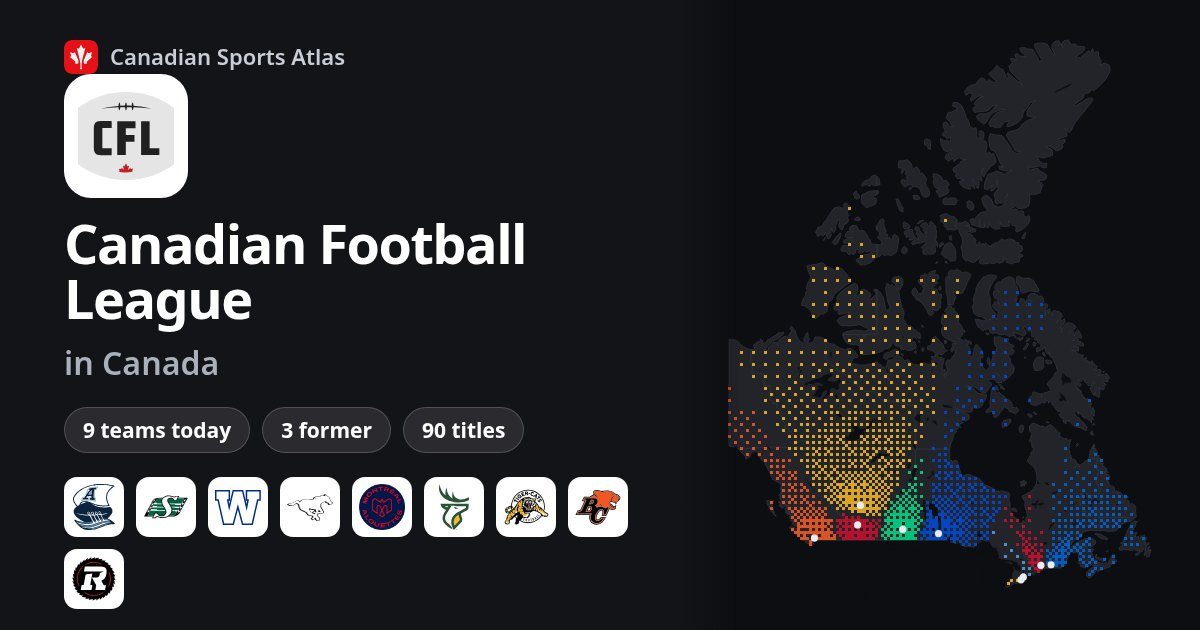
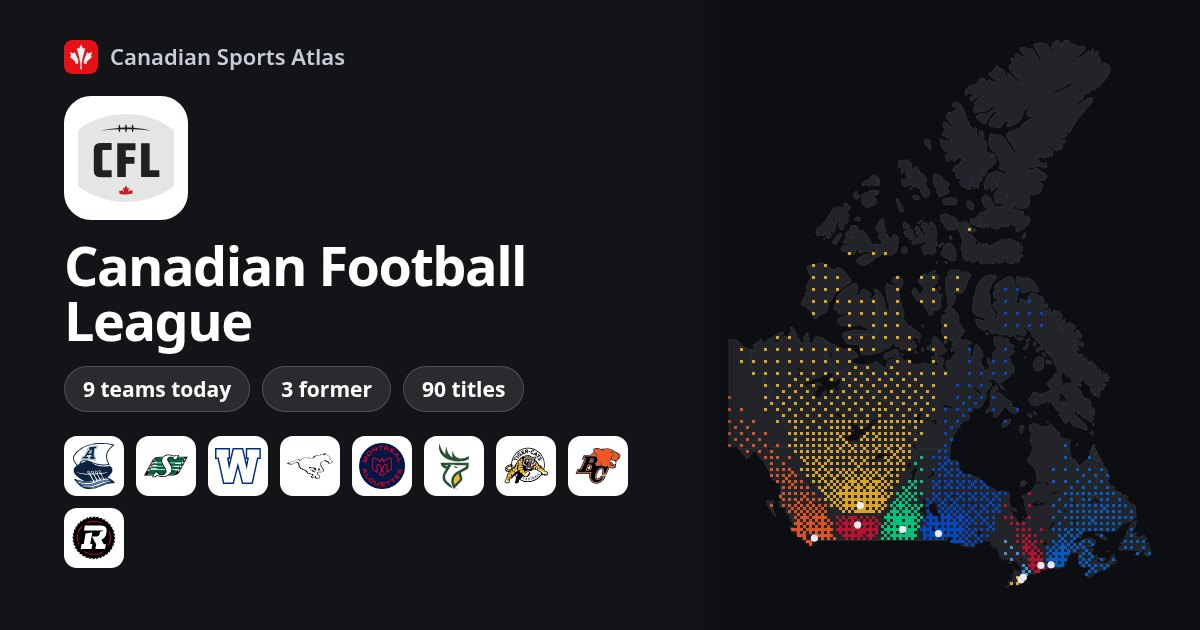
Frosted Credits header; no 'in Canada' on Canadian-only league cards
- Credits: the header now lives inside the scrolling content as a sticky,
  frosted header (the side panel's glass-panel-header), flush with the top of
  the dialog, so content blurs as it scrolls under it. Same 48px height and
  title alignment as before; divider removed to match the panel.
- Credits: 'Brian Latchman,' kept together so the comma never wraps alone.
- Preview cards for the CFL, CPL, CEBL and NSL drop the 'in Canada' line
  (re-rendered); leagues with teams outside Canada keep it.

diff --git a/src/components/CreditsDialog.tsx b/src/components/CreditsDialog.tsx
@@ -108,19 +108,25 @@ function FileList({title, items}: {title: string; items: FileCredit[]}) {
 export function CreditsDialog({isOpen, onOpenChange}: {isOpen: boolean; onOpenChange: (open: boolean) => void}) {
   return (
     <Dialog isOpen={isOpen} onOpenChange={onOpenChange} width={520} maxHeight="85dvh">
-      {/* The header stays put; the content scrolls. */}
+      {/* The header sticks to the top of the scrolling content, frosted like the side panel's. */}
       <Layout
-        header={<DialogHeader title="Credits" onOpenChange={onOpenChange} />}
         content={
           <LayoutContent>
+            <VStack className="glass-panel-header credits-header sticky z-10 -mx-4">
+              <DialogHeader title="Credits" onOpenChange={onOpenChange} hasDivider={false} />
+            </VStack>
             <VStack gap={5}>
               <VStack gap={3}>
                 <Text>
                   An unofficial fan project by{' '}
-                  <Link href="https://latchman.ca" isExternalLink>
-                    Brian Latchman
-                  </Link>
-                  , not affiliated with or endorsed by any league or team.
+                  {/* Kept with its comma so the comma never wraps onto a line of its own. */}
+                  <span className="whitespace-nowrap">
+                    <Link href="https://latchman.ca" isExternalLink>
+                      Brian Latchman
+                    </Link>
+                    ,
+                  </span>{' '}
+                  not affiliated with or endorsed by any league or team.
                 </Text>
                 <HStack gap={2} wrap="wrap">
                   <Button href={REPO} target="_blank" variant="secondary" size="sm" label="GitHub" icon={<Icon icon={ExternalIcon} />} />

diff --git a/src/og/OgCard.tsx b/src/og/OgCard.tsx
@@ -27,6 +27,8 @@ const PANEL_W = 520;
 /** Other teams' territories on a team or city card: present, but quiet. */
 const MUTED: [number, number, number] = [54, 57, 66];
 const FAVICON = `${import.meta.env.BASE_URL}favicon.svg`;
+/** Leagues that only play in Canada: their cards don't need "in Canada". */
+const CANADIAN_LEAGUES = new Set<LeagueId>(['CFL', 'CPL', 'CEBL', 'NSL']);
 
 const teamRgb = (team: Team) => siteColor(latestEra(team).colors);
 const currentTeams = (league?: LeagueId) => TEAMS.filter((t) => isPlayingNow(t) && (!league || t.league === league));
@@ -318,7 +320,7 @@ function LeagueCard({geo, league}: {geo: Geo; league: LeagueId}) {
           </LogoTile>
           <h1 className="og-name og-league">
             {info.name}
-            <small>in Canada</small>
+            {!CANADIAN_LEAGUES.has(league) && <small>in Canada</small>}
           </h1>
           <Pills
             items={[

diff --git a/src/globals.css b/src/globals.css
@@ -445,6 +445,14 @@
   }
 }
 
+/* Credits header: sticks to the very top of the scroll area (past its top padding), frosted. */
+@layer components {
+  .credits-header {
+    top: calc(-1 * var(--credits-pad, 16px)) !important;
+    margin-top: calc(-1 * var(--credits-pad, 16px)) !important;
+  }
+}
+
 /* Credits: each file list sits behind a full-width, rounded, easy-to-tap header. */
 @layer components {
   .credit-files .astryx-collapsible-trigger {
